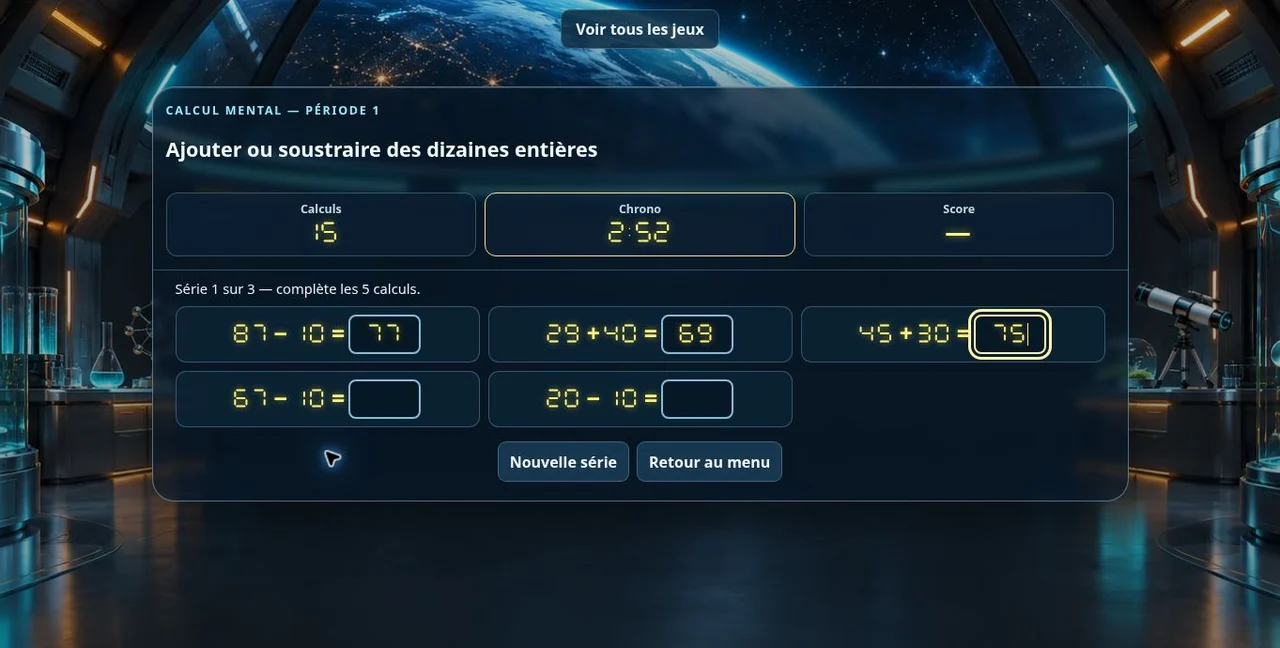
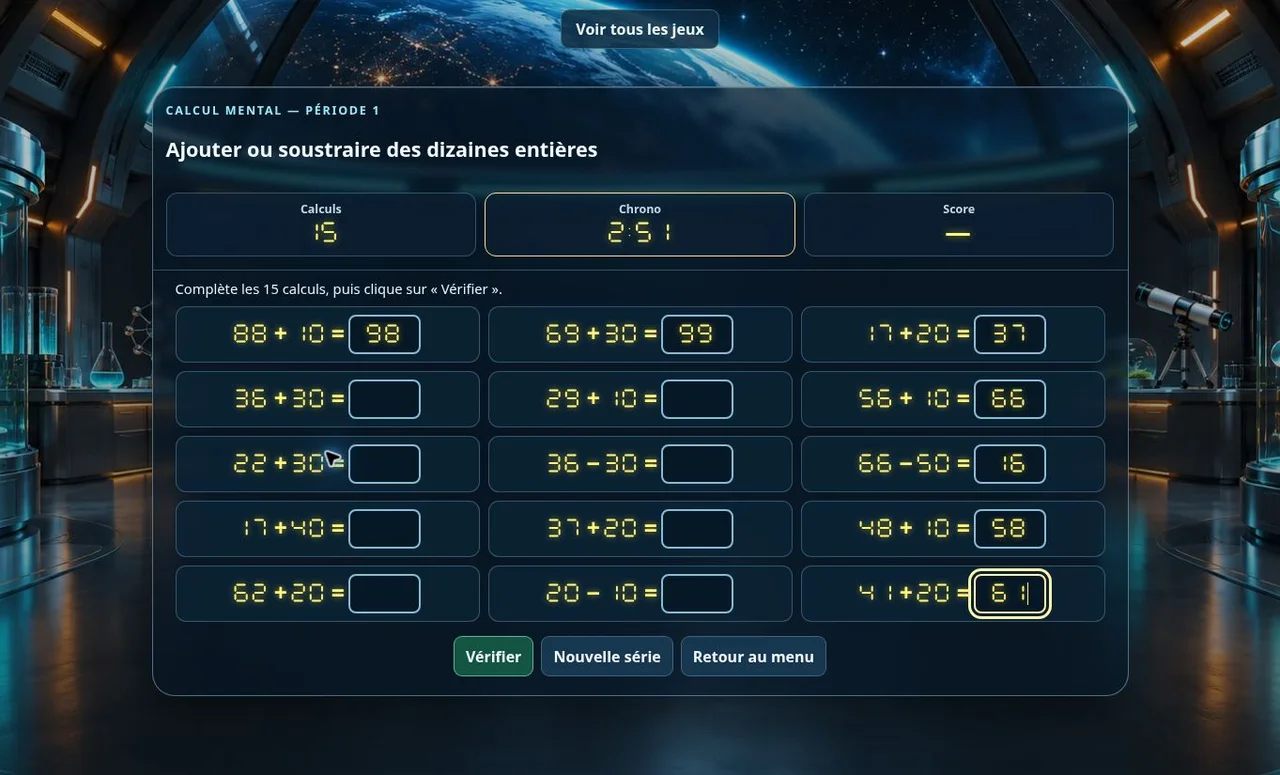
Actualiser la capture du blog avec les quinze calculs

Changed region(s): [[0.0, 0.0, 1.0, 1.0], [0.5, 0.9877, 0.5625, 1.0]]

diff --git a/fiches/calcul-mental-periode-1/index.html b/fiches/calcul-mental-periode-1/index.html
@@ -1,1 +1,1 @@
-<!doctype html><html lang="fr"><head><meta charset="utf-8"><meta name="viewport" content="width=device-width, initial-scale=1"><title>Calcul mental — Période 1 | CE1 | Les jeux de CE1</title><meta name="description" content="S’entraîner à plusieurs procédures de calcul mental."><meta name="robots" content="index, follow"><meta name="theme-color" content="#245d45"><link rel="canonical" href="https://bleja972.github.io/fiches/calcul-mental-periode-1/"><meta property="og:type" content="website"><meta property="og:locale" content="fr_FR"><meta property="og:title" content="Calcul mental — Période 1 | CE1 | Les jeux de CE1"><meta property="og:description" content="S’entraîner à plusieurs procédures de calcul mental."><meta property="og:url" content="https://bleja972.github.io/fiches/calcul-mental-periode-1/"><meta property="og:image" content="https://bleja972.github.io/assets/bulles-duo/capture.webp"><link rel="icon" href="/assets/catalogue-v2/favicon.svg" type="image/svg+xml"><link rel="stylesheet" href="/assets/catalogue-v2/style.css?v=ancres-cahiers-v1"><script type="application/ld+json">[{"@context": "https://schema.org", "@type": "WebSite", "name": "Les jeux de CE1", "url": "https://bleja972.github.io/", "inLanguage": "fr", "author": {"@type": "Person", "name": "David Bleja"}}, {"@context": "https://schema.org", "@type": "LearningResource", "name": "Calcul mental — Période 1", "description": "S’entraîner à plusieurs procédures de calcul mental.", "url": "https://bleja972.github.io/fiches/calcul-mental-periode-1/", "inLanguage": "fr", "educationalLevel": ["CE1"], "learningResourceType": "Jeu éducatif", "teaches": "S’entraîner à plusieurs procédures de calcul mental.", "author": {"@type": "Person", "name": "David Bleja"}}, {"@context": "https://schema.org", "@type": "BreadcrumbList", "itemListElement": [{"@type": "ListItem", "position": 1, "name": "Accueil", "item": "https://bleja972.github.io/"}, {"@type": "ListItem", "position": 2, "name": "Calcul mental", "item": "https://bleja972.github.io/competences/mental/"}, {"@type": "ListItem", "position": 3, "name": "Calcul mental — Période 1", "item": "https://bleja972.github.io/fiches/calcul-mental-periode-1/"}]}]</script><script src="/assets/catalogue-v2/app.js?v=all-languages-20261108" defer></script></head><body id="top" data-page="detail"><a class="skip" href="#contenu">Aller au contenu</a><header class="header"><div class="head-inner"><a class="brand" href="/" aria-label="Les jeux de CE1 — accueil"><span class="logo" aria-hidden="true"><i></i><i></i><i></i><i></i></span><span>Les jeux de CE1<small>Apprendre, explorer, grandir</small></span></a><nav class="topnav" aria-label="Navigation principale"><a href="/#catalogue" class="active">Découvrir les jeux</a><a class="parent-nav" href="/parents/">Pour les parents</a><a class="favorite-top" href="/?niveau=tous&amp;collection=favoris#catalogue" data-collection-link="favoris"><svg viewBox="0 0 24 24" fill="none" stroke="currentColor" stroke-width="1.7" stroke-linecap="round" stroke-linejoin="round" aria-hidden="true"><path d="M20.8 4.6a5.5 5.5 0 0 0-7.8 0L12 5.7l-1.1-1.1a5.5 5.5 0 0 0-7.8 7.8L12 21l8.8-8.6a5.5 5.5 0 0 0 0-7.8Z"/></svg> Ma sélection <span class="fav-count">0</span></a></nav></div></header><main class="page-shell" id="contenu"><nav class="breadcrumbs" aria-label="Fil d’Ariane"><a href="/">Accueil</a><span>›</span><a href="/competences/mental/">Calcul mental</a><span>›</span><span>Calcul mental — Période 1</span></nav><article><div class="detail-layout"><div><span class="eyebrow">Mathématiques · CE1 · Calcul mental</span><h1>Calcul mental — Période 1</h1><div></div><p>S’entraîner à plusieurs procédures de calcul mental.</p><div class="detail-buttons"><a class="button primary" href="/jouer/calcul-ce1/?jeu=jeu-60" target="_blank" rel="noopener" data-goatcounter-click="jouer-calcul-mental-periode-1" data-goatcounter-title="Jouer : Calcul mental — Période 1">Jouer à Calcul mental — Période 1 <span aria-hidden="true">↗</span></a><button class="game-fav" data-favorite="jeu-60" aria-label="Ajouter Calcul mental — Période 1 aux favoris" aria-pressed="false"><svg viewBox="0 0 24 24" fill="none" stroke="currentColor" stroke-width="1.7" stroke-linecap="round" stroke-linejoin="round" aria-hidden="true"><path d="M20.8 4.6a5.5 5.5 0 0 0-7.8 0L12 5.7l-1.1-1.1a5.5 5.5 0 0 0-7.8 7.8L12 21l8.8-8.6a5.5 5.5 0 0 0 0-7.8Z"/></svg><span>Garder en favori</span></button></div><p class="detail-note">Le jeu s’ouvre dans un nouvel onglet. Garde cette page pour revenir au catalogue.</p></div><div class="detail-visual"><button class="capture-button" type="button" data-preview data-src="/assets/catalogue-v2/captures/calcul-mental-ce1-periode-1-orbite.webp" data-title="Calcul mental — Période 1" data-game-url="/jouer/calcul-ce1/?jeu=jeu-60" aria-label="Agrandir la capture du jeu Calcul mental — Période 1"><img src="/assets/catalogue-v2/captures/calcul-mental-ce1-periode-1-orbite.webp" alt="Capture d’écran du jeu « Calcul mental — Période 1 »" width="1100" height="750" loading="lazy"><span class="capture-zoom" aria-hidden="true">Agrandir ⛶</span></button></div></div><div class="detail-columns"><div><h2>Ce que l’on travaille</h2><p>S’entraîner à plusieurs procédures de calcul mental.</p><h2>Pour commencer</h2><ol><li>Ouvre le jeu et prends le temps de lire ou d’écouter la consigne.</li><li>Réalise l’activité. Tu peux t’aider de matériel ou chercher sur une feuille.</li><li>Reviens au catalogue pour retrouver ce jeu ou découvrir une activité proche.</li></ol><p><a href="https://bleja972.github.io/jeux/calcul-mental-periode-1/" target="_blank" rel="noopener">Consulter les conseils du blog actuel ↗</a></p></div><aside class="guide-box"><h3>Le conseil de l’enseignant</h3><p>Privilégie un court entraînement régulier. Demande à l’enfant d’expliquer comment il a cherché et valorise sa démarche.</p><p><strong>Compétence :</strong><br>Calcul mental varié</p><a class="text-link" href="/parents/">Accompagner à la maison →</a></aside></div></article><section class="related"><h2>Pour continuer à explorer</h2><div class="game-grid"><article class="game-card" data-game="jeu-28"><div class="game-cover "><button class="capture-button" type="button" data-preview data-src="/assets/catalogue-v2/captures/jeu-28.webp" data-title="Calcul mental CP" data-game-url="https://bleja972.github.io/jeux/calcul-mental-cp/" aria-label="Agrandir la capture du jeu Calcul mental CP"><img src="/assets/catalogue-v2/captures/jeu-28.webp" alt="Capture d’écran du jeu « Calcul mental CP »" width="1100" height="750" loading="lazy"><span class="capture-zoom" aria-hidden="true">Agrandir ⛶</span></button><div class="cover-badges"></div><button class="game-fav" data-favorite="jeu-28" aria-label="Ajouter Calcul mental CP aux favoris" aria-pressed="false"><svg viewBox="0 0 24 24" fill="none" stroke="currentColor" stroke-width="1.7" stroke-linecap="round" stroke-linejoin="round" aria-hidden="true"><path d="M20.8 4.6a5.5 5.5 0 0 0-7.8 0L12 5.7l-1.1-1.1a5.5 5.5 0 0 0-7.8 7.8L12 21l8.8-8.6a5.5 5.5 0 0 0 0-7.8Z"/></svg></button></div><div class="game-info"><div class="card-meta">CP · Calcul mental</div><h3><a href="/fiches/calcul-mental-cp/">Calcul mental CP</a></h3><p>S’entraîner à plusieurs procédures de calcul mental.</p><div class="card-actions"><a class="play" href="https://bleja972.github.io/jeux/calcul-mental-cp/" target="_blank" rel="noopener" aria-label="Jouer à Calcul mental CP — nouvel onglet" data-goatcounter-click="jouer-calcul-mental-cp" data-goatcounter-title="Jouer : Calcul mental CP">Jouer à Calcul mental CP <span aria-hidden="true">↗</span></a><a class="card-detail" href="/fiches/calcul-mental-cp/">Fiche du jeu « Calcul mental CP » <span aria-hidden="true">→</span></a></div></div></article><article class="game-card" data-game="jeu-29"><div class="game-cover "><button class="capture-button" type="button" data-preview data-src="/assets/catalogue-v2/captures/jeu-29.webp" data-title="Chronomaths CE2 — 20 défis" data-game-url="/jouer/calcul-ce2/?jeu=jeu-29" aria-label="Agrandir la capture du jeu Chronomaths CE2 — 20 défis"><img src="/assets/catalogue-v2/captures/jeu-29.webp" alt="Capture d’écran du jeu « Chronomaths CE2 — 20 défis »" width="1100" height="750" loading="lazy"><span class="capture-zoom" aria-hidden="true">Agrandir ⛶</span></button><div class="cover-badges"></div><button class="game-fav" data-favorite="jeu-29" aria-label="Ajouter Chronomaths CE2 — 20 défis aux favoris" aria-pressed="false"><svg viewBox="0 0 24 24" fill="none" stroke="currentColor" stroke-width="1.7" stroke-linecap="round" stroke-linejoin="round" aria-hidden="true"><path d="M20.8 4.6a5.5 5.5 0 0 0-7.8 0L12 5.7l-1.1-1.1a5.5 5.5 0 0 0-7.8 7.8L12 21l8.8-8.6a5.5 5.5 0 0 0 0-7.8Z"/></svg></button></div><div class="game-info"><div class="card-meta">CE2 · Calcul mental</div><h3><a href="/fiches/chronomaths-ce2-20-defis/">Chronomaths CE2 — 20 défis</a></h3><p>S’entraîner à plusieurs procédures de calcul mental.</p><div class="card-actions"><a class="play" href="/jouer/calcul-ce2/?jeu=jeu-29" target="_blank" rel="noopener" aria-label="Jouer à Chronomaths CE2 — 20 défis — nouvel onglet" data-goatcounter-click="jouer-chronomaths-ce2" data-goatcounter-title="Jouer : Chronomaths CE2">Jouer à Chronomaths CE2 — 20 défis <span aria-hidden="true">↗</span></a><a class="card-detail" href="/fiches/chronomaths-ce2-20-defis/">Fiche du jeu « Chronomaths CE2 — 20 défis » <span aria-hidden="true">→</span></a></div></div></article><article class="game-card" data-game="jeu-47"><div class="game-cover "><button class="capture-button" type="button" data-preview data-src="/assets/catalogue-v2/captures/jeu-47.webp" data-title="Chronomaths CE1 — 20 défis" data-game-url="/jouer/calcul-ce1/?jeu=jeu-47" aria-label="Agrandir la capture du jeu Chronomaths CE1 — 20 défis"><img src="/assets/catalogue-v2/captures/jeu-47.webp" alt="Capture d’écran du jeu « Chronomaths CE1 — 20 défis »" width="1100" height="750" loading="lazy"><span class="capture-zoom" aria-hidden="true">Agrandir ⛶</span></button><div class="cover-badges"></div><button class="game-fav" data-favorite="jeu-47" aria-label="Ajouter Chronomaths CE1 — 20 défis aux favoris" aria-pressed="false"><svg viewBox="0 0 24 24" fill="none" stroke="currentColor" stroke-width="1.7" stroke-linecap="round" stroke-linejoin="round" aria-hidden="true"><path d="M20.8 4.6a5.5 5.5 0 0 0-7.8 0L12 5.7l-1.1-1.1a5.5 5.5 0 0 0-7.8 7.8L12 21l8.8-8.6a5.5 5.5 0 0 0 0-7.8Z"/></svg></button></div><div class="game-info"><div class="card-meta">CE1 · Calcul mental</div><h3><a href="/fiches/chronomaths-ce1-20-defis/">Chronomaths CE1 — 20 défis</a></h3><p>S’entraîner à plusieurs procédures de calcul mental.</p><div class="card-actions"><a class="play" href="/jouer/calcul-ce1/?jeu=jeu-47" target="_blank" rel="noopener" aria-label="Jouer à Chronomaths CE1 — 20 défis — nouvel onglet" data-goatcounter-click="jouer-chronomaths-ce1" data-goatcounter-title="Jouer : Chronomaths CE1">Jouer à Chronomaths CE1 — 20 défis <span aria-hidden="true">↗</span></a><a class="card-detail" href="/fiches/chronomaths-ce1-20-defis/">Fiche du jeu « Chronomaths CE1 — 20 défis » <span aria-hidden="true">→</span></a></div></div></article></div></section><p style="margin-top:25px"><a class="text-link" href="/competences/mental/">← Tous les jeux : Calcul mental</a></p><section class="content-block" id="calcul-mental-periode-1-pdf" style="margin:18px auto;padding:18px;border:1px solid #bed3cb;border-radius:14px;background:#f3faf6;color:#243e45"><h2>Calcul mental CE1 - Période 1 : une compétence par page</h2><p>7 fiches de 15 calculs : doubles, presque doubles, compléments à 10, dizaines entières, sommes inférieures à 10, passage par 10 et soustraire à 10.</p><p>Chaque compétence occupe une page, avec trois séries de cinq calculs. Format A4 : pages 1 à 7 pour les élèves ; pages 8 à 14 pour les corrigés, également une compétence par page.</p><p><a class="button primary" style="display:inline-block;padding:12px 16px;border-radius:10px;background:#ffe095;color:#243e45;font-weight:800;text-decoration:none" href="/pdf/Calcul_mental_CE1_Periode_1_une_competence_par_page.pdf" download data-goatcounter-click="telecharger-calcul-mental-p1-ce1">↓ Télécharger les 7 fiches et les corrigés (PDF)</a></p></section></main><footer class="footer"><span>Les jeux de CE1 · Apprendre en jouant</span><span class="public-counter">Visites de l’accueil : <strong data-counter-path="/">—</strong></span><span><a href="/parents/">Parents et enseignants</a> · <a href="/imprimer/">À imprimer</a> · <a href="/en/?lang=en" lang="en">🇬🇧 English</a></span><span class="public-stats-note">Les visites et les clics vers les jeux sont mesurés avec GoatCounter.</span></footer><nav class="mobile-nav" aria-label="Navigation mobile"><a href="/#catalogue" data-collection-link="tous"><svg viewBox="0 0 24 24" fill="none" stroke="currentColor" stroke-width="1.7" stroke-linecap="round" stroke-linejoin="round" aria-hidden="true"><rect x="3" y="3" width="7" height="7" rx="2"/><rect x="14" y="3" width="7" height="7" rx="2"/><rect x="3" y="14" width="7" height="7" rx="2"/><rect x="14" y="14" width="7" height="7" rx="2"/></svg>Découvrir</a><a href="/?niveau=tous&amp;collection=semaine#catalogue" data-collection-link="semaine"><svg viewBox="0 0 24 24" fill="none" stroke="currentColor" stroke-width="1.7" stroke-linecap="round" stroke-linejoin="round" aria-hidden="true"><path d="m12 2 3.1 6.3 6.9 1-5 4.9 1.2 6.9L12 17.8l-6.2 3.3L7 14.2l-5-4.9 6.9-1Z"/></svg>Semaine</a><a href="/?niveau=tous&amp;collection=nouveautes#catalogue" data-collection-link="nouveautes"><svg viewBox="0 0 24 24" fill="none" stroke="currentColor" stroke-width="1.7" stroke-linecap="round" stroke-linejoin="round" aria-hidden="true"><path d="m12 3 2.7 6.3L21 12l-6.3 2.7L12 21l-2.7-6.3L3 12l6.3-2.7Z"/></svg>Nouveautés</a><a href="/?niveau=tous&amp;collection=favoris#catalogue" data-collection-link="favoris"><svg viewBox="0 0 24 24" fill="none" stroke="currentColor" stroke-width="1.7" stroke-linecap="round" stroke-linejoin="round" aria-hidden="true"><path d="M20.8 4.6a5.5 5.5 0 0 0-7.8 0L12 5.7l-1.1-1.1a5.5 5.5 0 0 0-7.8 7.8L12 21l8.8-8.6a5.5 5.5 0 0 0 0-7.8Z"/></svg>Favoris</a></nav><dialog id="capture-dialog" class="capture-dialog" aria-labelledby="capture-title"><div class="capture-dialog-head"><h2 id="capture-title">Aperçu du jeu</h2><button type="button" id="capture-close" aria-label="Fermer l’aperçu">×</button></div><img id="capture-full" alt=""><div class="capture-dialog-foot"><span>Capture d’écran du jeu</span><a id="capture-play" class="button primary" target="_blank" rel="noopener">Jouer au jeu aperçu <span aria-hidden="true">↗</span></a></div></dialog><p class="toast" id="toast" role="status" hidden></p><a class="floating-top" href="#top" aria-label="Retour en haut" hidden>↑</a><script defer src="/assets/statistiques.js"></script><script data-goatcounter="https://lesjeuxdemathsetdefrancais.goatcounter.com/count" async src="https://gc.zgo.at/count.js"></script></body></html>
+<!doctype html><html lang="fr"><head><meta charset="utf-8"><meta name="viewport" content="width=device-width, initial-scale=1"><title>Calcul mental — Période 1 | CE1 | Les jeux de CE1</title><meta name="description" content="S’entraîner à plusieurs procédures de calcul mental."><meta name="robots" content="index, follow"><meta name="theme-color" content="#245d45"><link rel="canonical" href="https://bleja972.github.io/fiches/calcul-mental-periode-1/"><meta property="og:type" content="website"><meta property="og:locale" content="fr_FR"><meta property="og:title" content="Calcul mental — Période 1 | CE1 | Les jeux de CE1"><meta property="og:description" content="S’entraîner à plusieurs procédures de calcul mental."><meta property="og:url" content="https://bleja972.github.io/fiches/calcul-mental-periode-1/"><meta property="og:image" content="https://bleja972.github.io/assets/bulles-duo/capture.webp"><link rel="icon" href="/assets/catalogue-v2/favicon.svg" type="image/svg+xml"><link rel="stylesheet" href="/assets/catalogue-v2/style.css?v=ancres-cahiers-v1"><script type="application/ld+json">[{"@context": "https://schema.org", "@type": "WebSite", "name": "Les jeux de CE1", "url": "https://bleja972.github.io/", "inLanguage": "fr", "author": {"@type": "Person", "name": "David Bleja"}}, {"@context": "https://schema.org", "@type": "LearningResource", "name": "Calcul mental — Période 1", "description": "S’entraîner à plusieurs procédures de calcul mental.", "url": "https://bleja972.github.io/fiches/calcul-mental-periode-1/", "inLanguage": "fr", "educationalLevel": ["CE1"], "learningResourceType": "Jeu éducatif", "teaches": "S’entraîner à plusieurs procédures de calcul mental.", "author": {"@type": "Person", "name": "David Bleja"}}, {"@context": "https://schema.org", "@type": "BreadcrumbList", "itemListElement": [{"@type": "ListItem", "position": 1, "name": "Accueil", "item": "https://bleja972.github.io/"}, {"@type": "ListItem", "position": 2, "name": "Calcul mental", "item": "https://bleja972.github.io/competences/mental/"}, {"@type": "ListItem", "position": 3, "name": "Calcul mental — Période 1", "item": "https://bleja972.github.io/fiches/calcul-mental-periode-1/"}]}]</script><script src="/assets/catalogue-v2/app.js?v=all-languages-20261108" defer></script></head><body id="top" data-page="detail"><a class="skip" href="#contenu">Aller au contenu</a><header class="header"><div class="head-inner"><a class="brand" href="/" aria-label="Les jeux de CE1 — accueil"><span class="logo" aria-hidden="true"><i></i><i></i><i></i><i></i></span><span>Les jeux de CE1<small>Apprendre, explorer, grandir</small></span></a><nav class="topnav" aria-label="Navigation principale"><a href="/#catalogue" class="active">Découvrir les jeux</a><a class="parent-nav" href="/parents/">Pour les parents</a><a class="favorite-top" href="/?niveau=tous&amp;collection=favoris#catalogue" data-collection-link="favoris"><svg viewBox="0 0 24 24" fill="none" stroke="currentColor" stroke-width="1.7" stroke-linecap="round" stroke-linejoin="round" aria-hidden="true"><path d="M20.8 4.6a5.5 5.5 0 0 0-7.8 0L12 5.7l-1.1-1.1a5.5 5.5 0 0 0-7.8 7.8L12 21l8.8-8.6a5.5 5.5 0 0 0 0-7.8Z"/></svg> Ma sélection <span class="fav-count">0</span></a></nav></div></header><main class="page-shell" id="contenu"><nav class="breadcrumbs" aria-label="Fil d’Ariane"><a href="/">Accueil</a><span>›</span><a href="/competences/mental/">Calcul mental</a><span>›</span><span>Calcul mental — Période 1</span></nav><article><div class="detail-layout"><div><span class="eyebrow">Mathématiques · CE1 · Calcul mental</span><h1>Calcul mental — Période 1</h1><div></div><p>S’entraîner à plusieurs procédures de calcul mental.</p><div class="detail-buttons"><a class="button primary" href="/jouer/calcul-ce1/?jeu=jeu-60" target="_blank" rel="noopener" data-goatcounter-click="jouer-calcul-mental-periode-1" data-goatcounter-title="Jouer : Calcul mental — Période 1">Jouer à Calcul mental — Période 1 <span aria-hidden="true">↗</span></a><button class="game-fav" data-favorite="jeu-60" aria-label="Ajouter Calcul mental — Période 1 aux favoris" aria-pressed="false"><svg viewBox="0 0 24 24" fill="none" stroke="currentColor" stroke-width="1.7" stroke-linecap="round" stroke-linejoin="round" aria-hidden="true"><path d="M20.8 4.6a5.5 5.5 0 0 0-7.8 0L12 5.7l-1.1-1.1a5.5 5.5 0 0 0-7.8 7.8L12 21l8.8-8.6a5.5 5.5 0 0 0 0-7.8Z"/></svg><span>Garder en favori</span></button></div><p class="detail-note">Le jeu s’ouvre dans un nouvel onglet. Garde cette page pour revenir au catalogue.</p></div><div class="detail-visual"><button class="capture-button" type="button" data-preview data-src="/assets/catalogue-v2/captures/calcul-mental-ce1-periode-1-orbite.webp?v=quinze-calculs" data-title="Calcul mental — Période 1" data-game-url="/jouer/calcul-ce1/?jeu=jeu-60" aria-label="Agrandir la capture du jeu Calcul mental — Période 1"><img src="/assets/catalogue-v2/captures/calcul-mental-ce1-periode-1-orbite.webp?v=quinze-calculs" alt="Capture d’écran du jeu « Calcul mental — Période 1 »" width="1100" height="750" loading="lazy"><span class="capture-zoom" aria-hidden="true">Agrandir ⛶</span></button></div></div><div class="detail-columns"><div><h2>Ce que l’on travaille</h2><p>S’entraîner à plusieurs procédures de calcul mental.</p><h2>Pour commencer</h2><ol><li>Ouvre le jeu et prends le temps de lire ou d’écouter la consigne.</li><li>Réalise l’activité. Tu peux t’aider de matériel ou chercher sur une feuille.</li><li>Reviens au catalogue pour retrouver ce jeu ou découvrir une activité proche.</li></ol><p><a href="https://bleja972.github.io/jeux/calcul-mental-periode-1/" target="_blank" rel="noopener">Consulter les conseils du blog actuel ↗</a></p></div><aside class="guide-box"><h3>Le conseil de l’enseignant</h3><p>Privilégie un court entraînement régulier. Demande à l’enfant d’expliquer comment il a cherché et valorise sa démarche.</p><p><strong>Compétence :</strong><br>Calcul mental varié</p><a class="text-link" href="/parents/">Accompagner à la maison →</a></aside></div></article><section class="related"><h2>Pour continuer à explorer</h2><div class="game-grid"><article class="game-card" data-game="jeu-28"><div class="game-cover "><button class="capture-button" type="button" data-preview data-src="/assets/catalogue-v2/captures/jeu-28.webp" data-title="Calcul mental CP" data-game-url="https://bleja972.github.io/jeux/calcul-mental-cp/" aria-label="Agrandir la capture du jeu Calcul mental CP"><img src="/assets/catalogue-v2/captures/jeu-28.webp" alt="Capture d’écran du jeu « Calcul mental CP »" width="1100" height="750" loading="lazy"><span class="capture-zoom" aria-hidden="true">Agrandir ⛶</span></button><div class="cover-badges"></div><button class="game-fav" data-favorite="jeu-28" aria-label="Ajouter Calcul mental CP aux favoris" aria-pressed="false"><svg viewBox="0 0 24 24" fill="none" stroke="currentColor" stroke-width="1.7" stroke-linecap="round" stroke-linejoin="round" aria-hidden="true"><path d="M20.8 4.6a5.5 5.5 0 0 0-7.8 0L12 5.7l-1.1-1.1a5.5 5.5 0 0 0-7.8 7.8L12 21l8.8-8.6a5.5 5.5 0 0 0 0-7.8Z"/></svg></button></div><div class="game-info"><div class="card-meta">CP · Calcul mental</div><h3><a href="/fiches/calcul-mental-cp/">Calcul mental CP</a></h3><p>S’entraîner à plusieurs procédures de calcul mental.</p><div class="card-actions"><a class="play" href="https://bleja972.github.io/jeux/calcul-mental-cp/" target="_blank" rel="noopener" aria-label="Jouer à Calcul mental CP — nouvel onglet" data-goatcounter-click="jouer-calcul-mental-cp" data-goatcounter-title="Jouer : Calcul mental CP">Jouer à Calcul mental CP <span aria-hidden="true">↗</span></a><a class="card-detail" href="/fiches/calcul-mental-cp/">Fiche du jeu « Calcul mental CP » <span aria-hidden="true">→</span></a></div></div></article><article class="game-card" data-game="jeu-29"><div class="game-cover "><button class="capture-button" type="button" data-preview data-src="/assets/catalogue-v2/captures/jeu-29.webp" data-title="Chronomaths CE2 — 20 défis" data-game-url="/jouer/calcul-ce2/?jeu=jeu-29" aria-label="Agrandir la capture du jeu Chronomaths CE2 — 20 défis"><img src="/assets/catalogue-v2/captures/jeu-29.webp" alt="Capture d’écran du jeu « Chronomaths CE2 — 20 défis »" width="1100" height="750" loading="lazy"><span class="capture-zoom" aria-hidden="true">Agrandir ⛶</span></button><div class="cover-badges"></div><button class="game-fav" data-favorite="jeu-29" aria-label="Ajouter Chronomaths CE2 — 20 défis aux favoris" aria-pressed="false"><svg viewBox="0 0 24 24" fill="none" stroke="currentColor" stroke-width="1.7" stroke-linecap="round" stroke-linejoin="round" aria-hidden="true"><path d="M20.8 4.6a5.5 5.5 0 0 0-7.8 0L12 5.7l-1.1-1.1a5.5 5.5 0 0 0-7.8 7.8L12 21l8.8-8.6a5.5 5.5 0 0 0 0-7.8Z"/></svg></button></div><div class="game-info"><div class="card-meta">CE2 · Calcul mental</div><h3><a href="/fiches/chronomaths-ce2-20-defis/">Chronomaths CE2 — 20 défis</a></h3><p>S’entraîner à plusieurs procédures de calcul mental.</p><div class="card-actions"><a class="play" href="/jouer/calcul-ce2/?jeu=jeu-29" target="_blank" rel="noopener" aria-label="Jouer à Chronomaths CE2 — 20 défis — nouvel onglet" data-goatcounter-click="jouer-chronomaths-ce2" data-goatcounter-title="Jouer : Chronomaths CE2">Jouer à Chronomaths CE2 — 20 défis <span aria-hidden="true">↗</span></a><a class="card-detail" href="/fiches/chronomaths-ce2-20-defis/">Fiche du jeu « Chronomaths CE2 — 20 défis » <span aria-hidden="true">→</span></a></div></div></article><article class="game-card" data-game="jeu-47"><div class="game-cover "><button class="capture-button" type="button" data-preview data-src="/assets/catalogue-v2/captures/jeu-47.webp" data-title="Chronomaths CE1 — 20 défis" data-game-url="/jouer/calcul-ce1/?jeu=jeu-47" aria-label="Agrandir la capture du jeu Chronomaths CE1 — 20 défis"><img src="/assets/catalogue-v2/captures/jeu-47.webp" alt="Capture d’écran du jeu « Chronomaths CE1 — 20 défis »" width="1100" height="750" loading="lazy"><span class="capture-zoom" aria-hidden="true">Agrandir ⛶</span></button><div class="cover-badges"></div><button class="game-fav" data-favorite="jeu-47" aria-label="Ajouter Chronomaths CE1 — 20 défis aux favoris" aria-pressed="false"><svg viewBox="0 0 24 24" fill="none" stroke="currentColor" stroke-width="1.7" stroke-linecap="round" stroke-linejoin="round" aria-hidden="true"><path d="M20.8 4.6a5.5 5.5 0 0 0-7.8 0L12 5.7l-1.1-1.1a5.5 5.5 0 0 0-7.8 7.8L12 21l8.8-8.6a5.5 5.5 0 0 0 0-7.8Z"/></svg></button></div><div class="game-info"><div class="card-meta">CE1 · Calcul mental</div><h3><a href="/fiches/chronomaths-ce1-20-defis/">Chronomaths CE1 — 20 défis</a></h3><p>S’entraîner à plusieurs procédures de calcul mental.</p><div class="card-actions"><a class="play" href="/jouer/calcul-ce1/?jeu=jeu-47" target="_blank" rel="noopener" aria-label="Jouer à Chronomaths CE1 — 20 défis — nouvel onglet" data-goatcounter-click="jouer-chronomaths-ce1" data-goatcounter-title="Jouer : Chronomaths CE1">Jouer à Chronomaths CE1 — 20 défis <span aria-hidden="true">↗</span></a><a class="card-detail" href="/fiches/chronomaths-ce1-20-defis/">Fiche du jeu « Chronomaths CE1 — 20 défis » <span aria-hidden="true">→</span></a></div></div></article></div></section><p style="margin-top:25px"><a class="text-link" href="/competences/mental/">← Tous les jeux : Calcul mental</a></p><section class="content-block" id="calcul-mental-periode-1-pdf" style="margin:18px auto;padding:18px;border:1px solid #bed3cb;border-radius:14px;background:#f3faf6;color:#243e45"><h2>Calcul mental CE1 - Période 1 : une compétence par page</h2><p>7 fiches de 15 calculs : doubles, presque doubles, compléments à 10, dizaines entières, sommes inférieures à 10, passage par 10 et soustraire à 10.</p><p>Chaque compétence occupe une page, avec trois séries de cinq calculs. Format A4 : pages 1 à 7 pour les élèves ; pages 8 à 14 pour les corrigés, également une compétence par page.</p><p><a class="button primary" style="display:inline-block;padding:12px 16px;border-radius:10px;background:#ffe095;color:#243e45;font-weight:800;text-decoration:none" href="/pdf/Calcul_mental_CE1_Periode_1_une_competence_par_page.pdf" download data-goatcounter-click="telecharger-calcul-mental-p1-ce1">↓ Télécharger les 7 fiches et les corrigés (PDF)</a></p></section></main><footer class="footer"><span>Les jeux de CE1 · Apprendre en jouant</span><span class="public-counter">Visites de l’accueil : <strong data-counter-path="/">—</strong></span><span><a href="/parents/">Parents et enseignants</a> · <a href="/imprimer/">À imprimer</a> · <a href="/en/?lang=en" lang="en">🇬🇧 English</a></span><span class="public-stats-note">Les visites et les clics vers les jeux sont mesurés avec GoatCounter.</span></footer><nav class="mobile-nav" aria-label="Navigation mobile"><a href="/#catalogue" data-collection-link="tous"><svg viewBox="0 0 24 24" fill="none" stroke="currentColor" stroke-width="1.7" stroke-linecap="round" stroke-linejoin="round" aria-hidden="true"><rect x="3" y="3" width="7" height="7" rx="2"/><rect x="14" y="3" width="7" height="7" rx="2"/><rect x="3" y="14" width="7" height="7" rx="2"/><rect x="14" y="14" width="7" height="7" rx="2"/></svg>Découvrir</a><a href="/?niveau=tous&amp;collection=semaine#catalogue" data-collection-link="semaine"><svg viewBox="0 0 24 24" fill="none" stroke="currentColor" stroke-width="1.7" stroke-linecap="round" stroke-linejoin="round" aria-hidden="true"><path d="m12 2 3.1 6.3 6.9 1-5 4.9 1.2 6.9L12 17.8l-6.2 3.3L7 14.2l-5-4.9 6.9-1Z"/></svg>Semaine</a><a href="/?niveau=tous&amp;collection=nouveautes#catalogue" data-collection-link="nouveautes"><svg viewBox="0 0 24 24" fill="none" stroke="currentColor" stroke-width="1.7" stroke-linecap="round" stroke-linejoin="round" aria-hidden="true"><path d="m12 3 2.7 6.3L21 12l-6.3 2.7L12 21l-2.7-6.3L3 12l6.3-2.7Z"/></svg>Nouveautés</a><a href="/?niveau=tous&amp;collection=favoris#catalogue" data-collection-link="favoris"><svg viewBox="0 0 24 24" fill="none" stroke="currentColor" stroke-width="1.7" stroke-linecap="round" stroke-linejoin="round" aria-hidden="true"><path d="M20.8 4.6a5.5 5.5 0 0 0-7.8 0L12 5.7l-1.1-1.1a5.5 5.5 0 0 0-7.8 7.8L12 21l8.8-8.6a5.5 5.5 0 0 0 0-7.8Z"/></svg>Favoris</a></nav><dialog id="capture-dialog" class="capture-dialog" aria-labelledby="capture-title"><div class="capture-dialog-head"><h2 id="capture-title">Aperçu du jeu</h2><button type="button" id="capture-close" aria-label="Fermer l’aperçu">×</button></div><img id="capture-full" alt=""><div class="capture-dialog-foot"><span>Capture d’écran du jeu</span><a id="capture-play" class="button primary" target="_blank" rel="noopener">Jouer au jeu aperçu <span aria-hidden="true">↗</span></a></div></dialog><p class="toast" id="toast" role="status" hidden></p><a class="floating-top" href="#top" aria-label="Retour en haut" hidden>↑</a><script defer src="/assets/statistiques.js"></script><script data-goatcounter="https://lesjeuxdemathsetdefrancais.goatcounter.com/count" async src="https://gc.zgo.at/count.js"></script></body></html>

diff --git a/jouer/calcul-ce1/index.html b/jouer/calcul-ce1/index.html
@@ -3,4 +3,4 @@
 </style><script defer src="https://bleja972.github.io/assets/affichage-horizontal.js?v=all-languages-20261108"></script></head><body>
 <div class="horizontal-tools"><button id="horizontal-toggle" type="button" aria-pressed="false">↻ Affichage horizontal</button><h1 id="game-title" class="game-title">Calcul CE1</h1><nav class="game-links" aria-label="Navigation du jeu"><a href="/competences/mental/?niveau=CE1#catalogue">← Calcul mental CE1</a><a href="/competences/pose/?niveau=CE1#catalogue">Calcul posé CE1</a><a id="direct-link" hidden target="_blank" rel="noopener">Ouvrir directement le jeu ↗</a><a id="worksheet-link" hidden download style="padding:7px 10px;border-radius:8px;background:#ffe095;color:#243e45;font-weight:800" data-goatcounter-click="telecharger-calcul-mental-p1-ce1">↓ Exercices et corrigés (PDF)</a></nav><p id="horizontal-status" role="status" aria-live="polite" hidden></p></div>
 <main id="game-container"><p id="missing">Choisis un jeu depuis <a href="/competences/mental/?niveau=CE1#catalogue">la rubrique Calcul CE1</a>.</p></main>
-<script>const games={"jeu-15":{"title":"Compléments à 10 — le défi de l’araignée","url":"https://bleja972.github.io/complements1_a_10/"},"jeu-16":{"title":"Compléments à 100 — le défi de l’araignée","url":"https://bleja972.github.io/complements_a_100/"},"jeu-17":{"title":"Compléments à 1 000 — le défi de l’araignée","url":"https://bleja972.github.io/complements_a_1000/"},"jeu-47":{"title":"Chronomaths CE1 — 20 défis","url":"https://bleja972.github.io/CHRONOMATHS_CE1/"},"jeu-48":{"title":"Soustractions par cassage","url":"https://bleja972.github.io/soustraction_cassage/"},"jeu-49":{"title":"Soustractions avec le matériel de numération","url":"https://bleja972.github.io/Soustractions_sans_echange2/"},"jeu-52":{"title":"Additions avec échanges — Jetons 3D","url":"https://bleja972.github.io/additions_echanges2/"},"jeu-53":{"title":"Additions avec passage par 10","url":"https://bleja972.github.io/passage_par_10/"},"jeu-55":{"title":"Les doubles","url":"https://bleja972.github.io/doubles2/"},"jeu-56":{"title":"Les presque doubles","url":"https://bleja972.github.io/PRESQUE8DOUBLES/"},"jeu-57":{"title":"Les compléments à 10","url":"https://bleja972.github.io/complements_a_10/"},"jeu-59":{"title":"Les petites additions","url":"https://bleja972.github.io/petites_additions/"},"jeu-60":{"title":"Calcul mental — Période 1","url":"https://bleja972.github.io/calcul_mental_P1_/?v=orbite-p1"},"jeu-61":{"title":"Les poissons des nombres","url":"https://bleja972.github.io/chainesdecalculspoissons/"},"jeu-62":{"title":"La course des calculs","url":"https://bleja972.github.io/HJDZGHJ/"},"jeu-63":{"title":"Compléments à 10, 100 et 1 000","url":"https://bleja972.github.io/complements/"},"jeu-64":{"title":"Calcul mental — Période 2","url":"/jeux/calcul-mental-periode-2/jouer/?v=5"}};const game=games[new URLSearchParams(location.search).get('jeu')];if(game){document.title=game.title+' — Affichage horizontal';document.getElementById('game-title').textContent=game.title;const link=document.getElementById('direct-link');link.href=game.url;link.hidden=false;const frame=document.createElement('iframe');frame.title=game.title;frame.src=game.url;frame.allow='fullscreen';frame.allowFullscreen=true;document.getElementById('game-container').replaceChildren(frame);}</script><script data-calcul-p1-worksheet>if(new URLSearchParams(location.search).get('jeu')==='jeu-60'){const worksheet=document.getElementById('worksheet-link');worksheet.href='/pdf/Calcul_mental_CE1_Periode_1_une_competence_par_page.pdf';worksheet.hidden=false;}</script></body></html>
+<script>const games={"jeu-15":{"title":"Compléments à 10 — le défi de l’araignée","url":"https://bleja972.github.io/complements1_a_10/"},"jeu-16":{"title":"Compléments à 100 — le défi de l’araignée","url":"https://bleja972.github.io/complements_a_100/"},"jeu-17":{"title":"Compléments à 1 000 — le défi de l’araignée","url":"https://bleja972.github.io/complements_a_1000/"},"jeu-47":{"title":"Chronomaths CE1 — 20 défis","url":"https://bleja972.github.io/CHRONOMATHS_CE1/"},"jeu-48":{"title":"Soustractions par cassage","url":"https://bleja972.github.io/soustraction_cassage/"},"jeu-49":{"title":"Soustractions avec le matériel de numération","url":"https://bleja972.github.io/Soustractions_sans_echange2/"},"jeu-52":{"title":"Additions avec échanges — Jetons 3D","url":"https://bleja972.github.io/additions_echanges2/"},"jeu-53":{"title":"Additions avec passage par 10","url":"https://bleja972.github.io/passage_par_10/"},"jeu-55":{"title":"Les doubles","url":"https://bleja972.github.io/doubles2/"},"jeu-56":{"title":"Les presque doubles","url":"https://bleja972.github.io/PRESQUE8DOUBLES/"},"jeu-57":{"title":"Les compléments à 10","url":"https://bleja972.github.io/complements_a_10/"},"jeu-59":{"title":"Les petites additions","url":"https://bleja972.github.io/petites_additions/"},"jeu-60":{"title":"Calcul mental — Période 1","url":"https://bleja972.github.io/calcul_mental_P1_/?v=quinze-calculs"},"jeu-61":{"title":"Les poissons des nombres","url":"https://bleja972.github.io/chainesdecalculspoissons/"},"jeu-62":{"title":"La course des calculs","url":"https://bleja972.github.io/HJDZGHJ/"},"jeu-63":{"title":"Compléments à 10, 100 et 1 000","url":"https://bleja972.github.io/complements/"},"jeu-64":{"title":"Calcul mental — Période 2","url":"/jeux/calcul-mental-periode-2/jouer/?v=5"}};const game=games[new URLSearchParams(location.search).get('jeu')];if(game){document.title=game.title+' — Affichage horizontal';document.getElementById('game-title').textContent=game.title;const link=document.getElementById('direct-link');link.href=game.url;link.hidden=false;const frame=document.createElement('iframe');frame.title=game.title;frame.src=game.url;frame.allow='fullscreen';frame.allowFullscreen=true;document.getElementById('game-container').replaceChildren(frame);}</script><script data-calcul-p1-worksheet>if(new URLSearchParams(location.search).get('jeu')==='jeu-60'){const worksheet=document.getElementById('worksheet-link');worksheet.href='/pdf/Calcul_mental_CE1_Periode_1_une_competence_par_page.pdf';worksheet.hidden=false;}</script></body></html>
